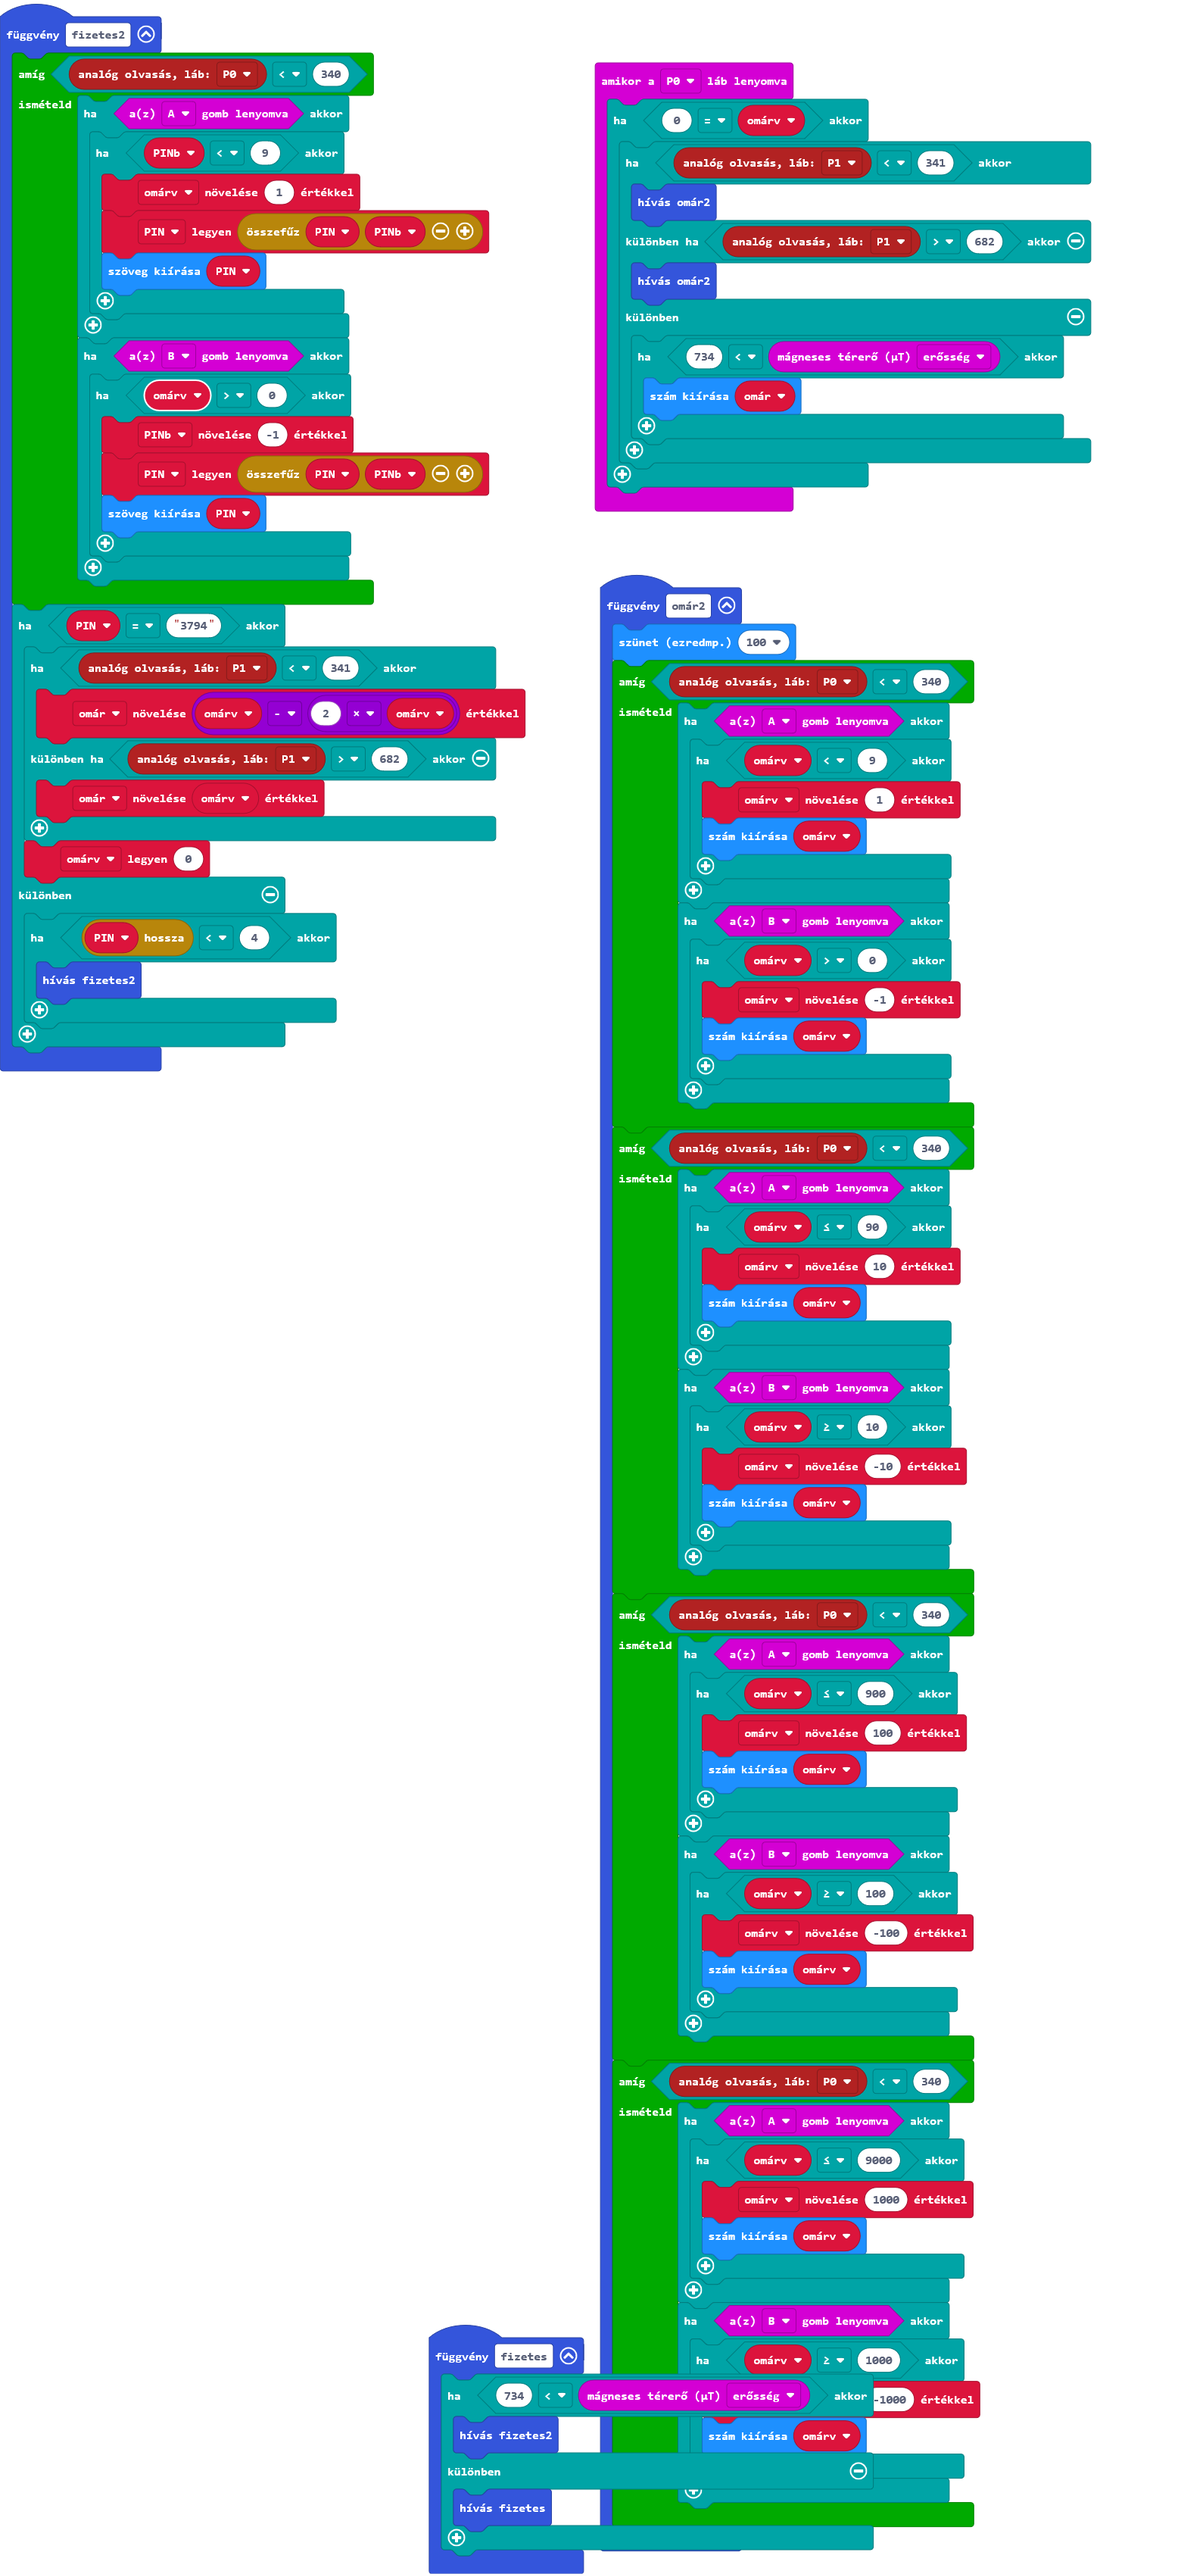
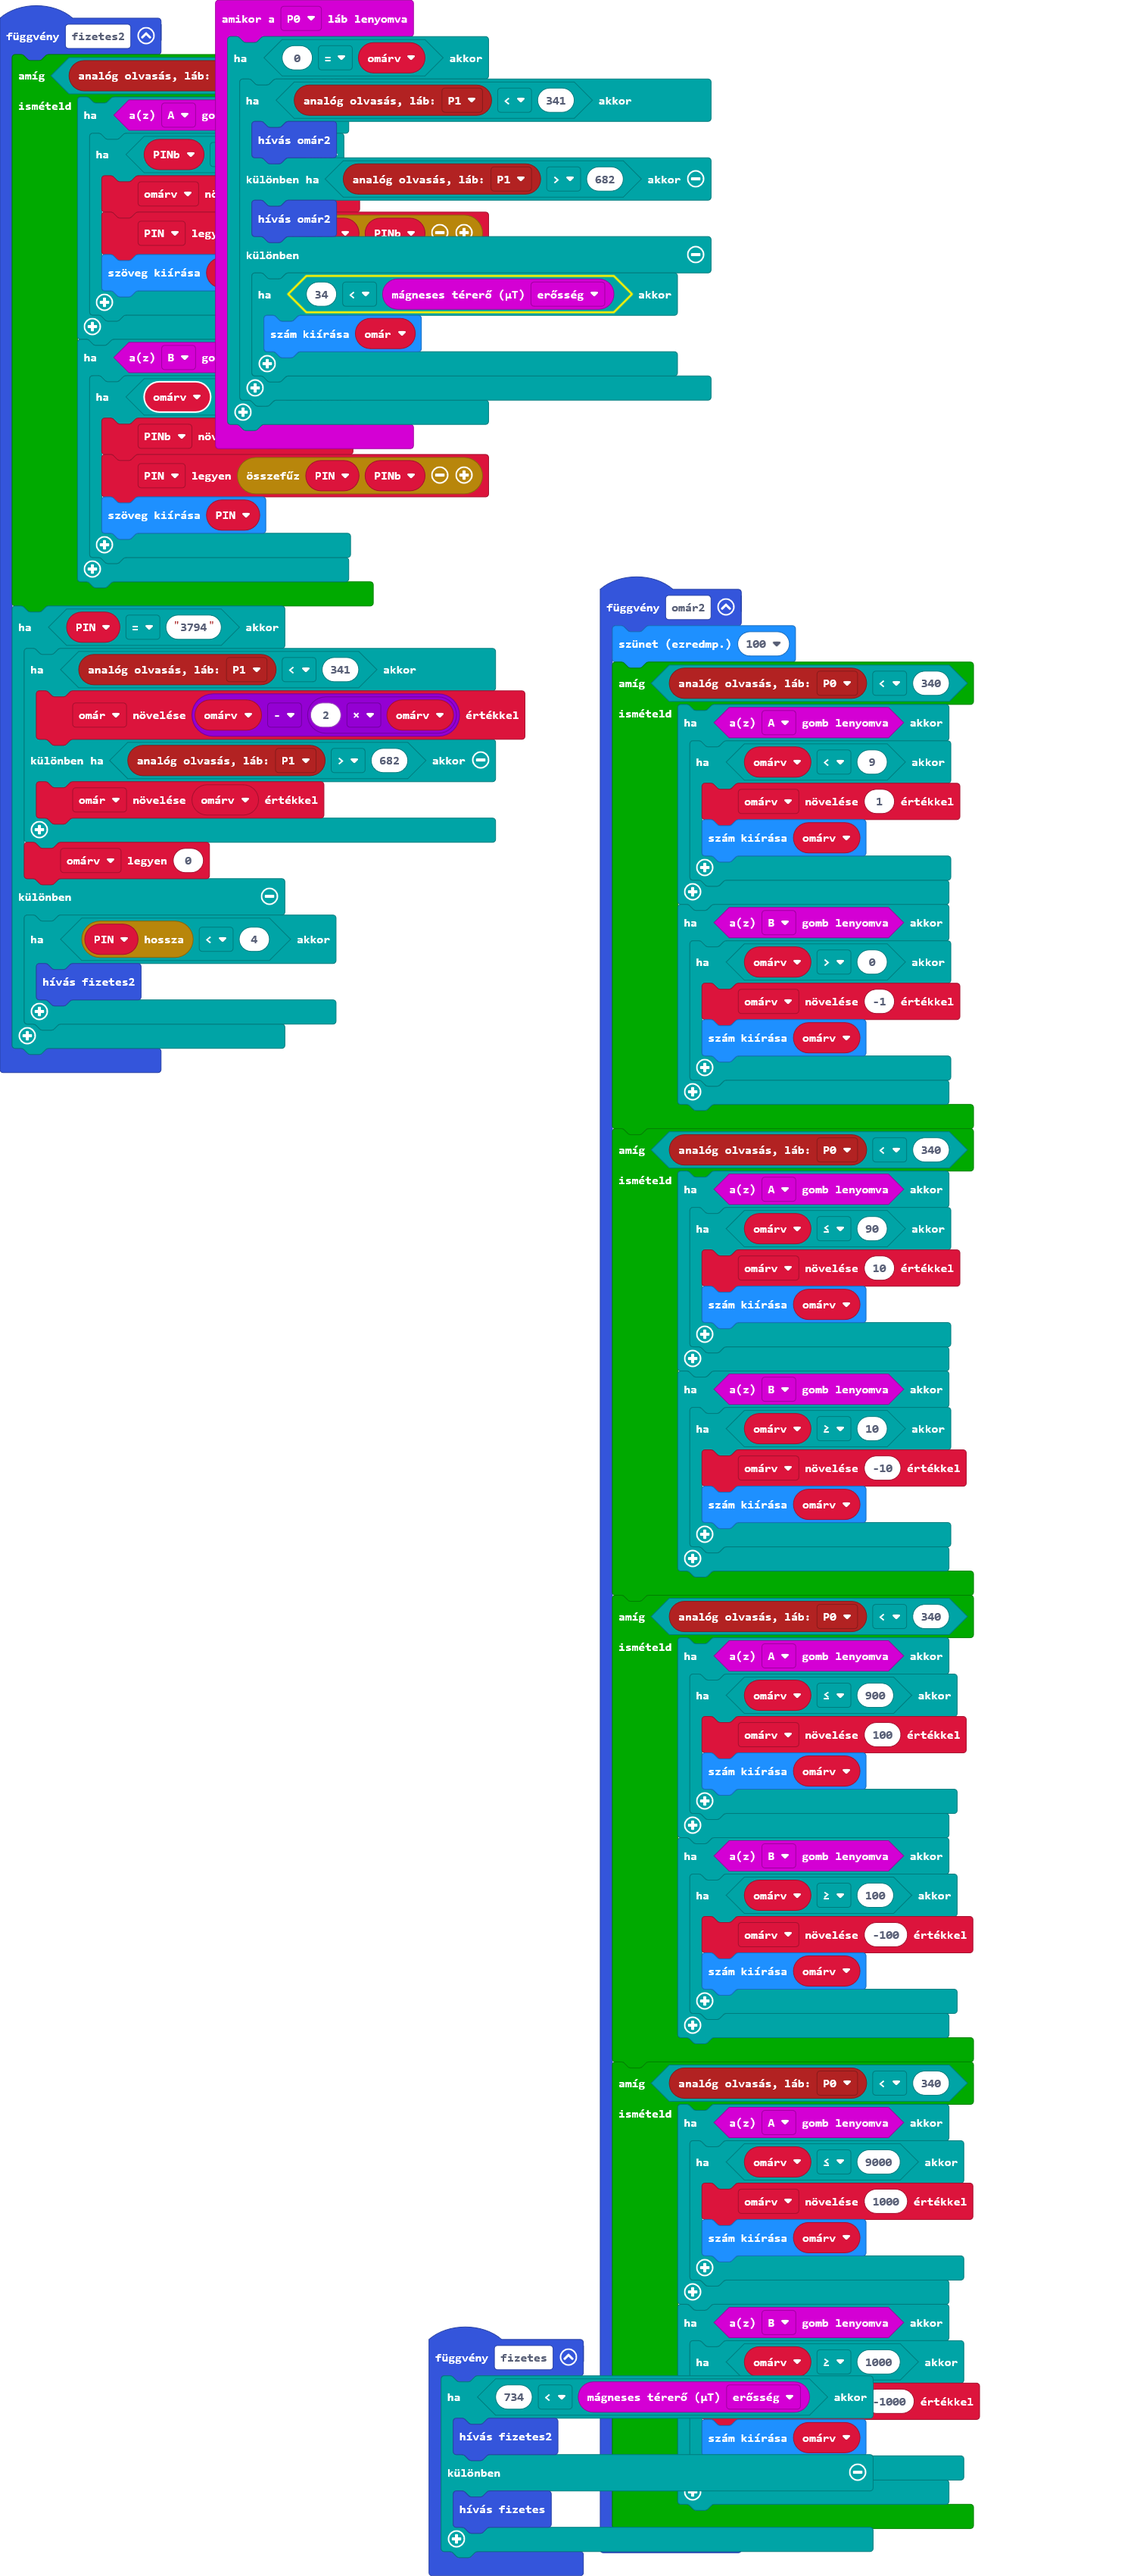
Update main.blocks, main.ts

Changed region(s): [[0.0, 0.0, 0.9494, 1.0]]

diff --git a/main.ts b/main.ts
@@ -9,7 +9,7 @@ input.onPinPressed(TouchPin.P0, function () {
         } else if (pins.analogReadPin(AnalogPin.P1) > 682) {
             omár2()
         } else {
-            if (734 < input.magneticForce(Dimension.Strength)) {
+            if (34 < input.magneticForce(Dimension.Strength)) {
                 basic.showNumber(omár)
             }
         }
